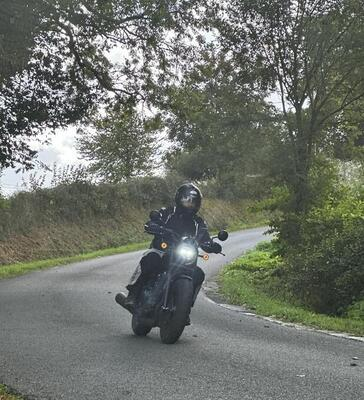
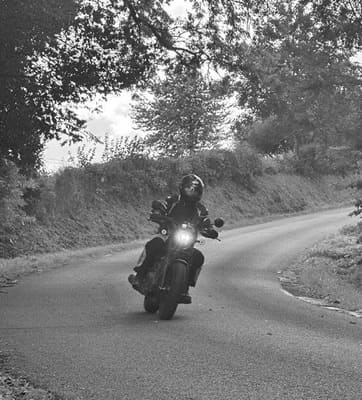
feat: update landing page pictures by black and white ones + about me pic

diff --git a/apps/portfolio/src/app/page.tsx b/apps/portfolio/src/app/page.tsx
@@ -5,18 +5,13 @@ import clsx from 'clsx'
 import { Button } from '@/components/Button'
 import { Card } from '@/components/Card'
 import { Container } from '@/components/Container'
-import {
-  GitHubIcon,
-  InstagramIcon,
-  LinkedInIcon,
-  TwitterIcon,
-} from '@/components/SocialIcons'
+import { GitHubIcon, LinkedInIcon } from '@/components/SocialIcons'
 import logoEmbie from '@/images/logos/embie.svg'
-import image1 from '@/images/photos/4l-trophy.jpg'
-import image2 from '@/images/photos/triathlon-bycicle.jpg'
-import image3 from '@/images/photos/moto.jpg'
-import image4 from '@/images/photos/hockey.jpg'
-import image5 from '@/images/photos/golf.jpg'
+import image1 from '@/images/photos/moto.jpg'
+import image2 from '@/images/photos/triathlon_bycicle.jpg'
+import image3 from '@/images/photos/code.jpg'
+import image4 from '@/images/photos/run.jpg'
+import image5 from '@/images/photos/velo_allemagne.jpg'
 import { type ArticleWithSlug, getAllArticles } from '@/lib/articles'
 import { formatDate } from '@/lib/formatDate'
 

diff --git a/apps/portfolio/src/app/about/page.tsx b/apps/portfolio/src/app/about/page.tsx
@@ -5,7 +5,7 @@ import clsx from 'clsx'
 
 import { Container } from '@/components/Container'
 import { GitHubIcon, LinkedInIcon } from '@/components/SocialIcons'
-import portraitImage from '@/images/portrait1.jpg'
+import portraitImage from '@/images/portrait.jpg'
 
 function SocialLink({
   className,
